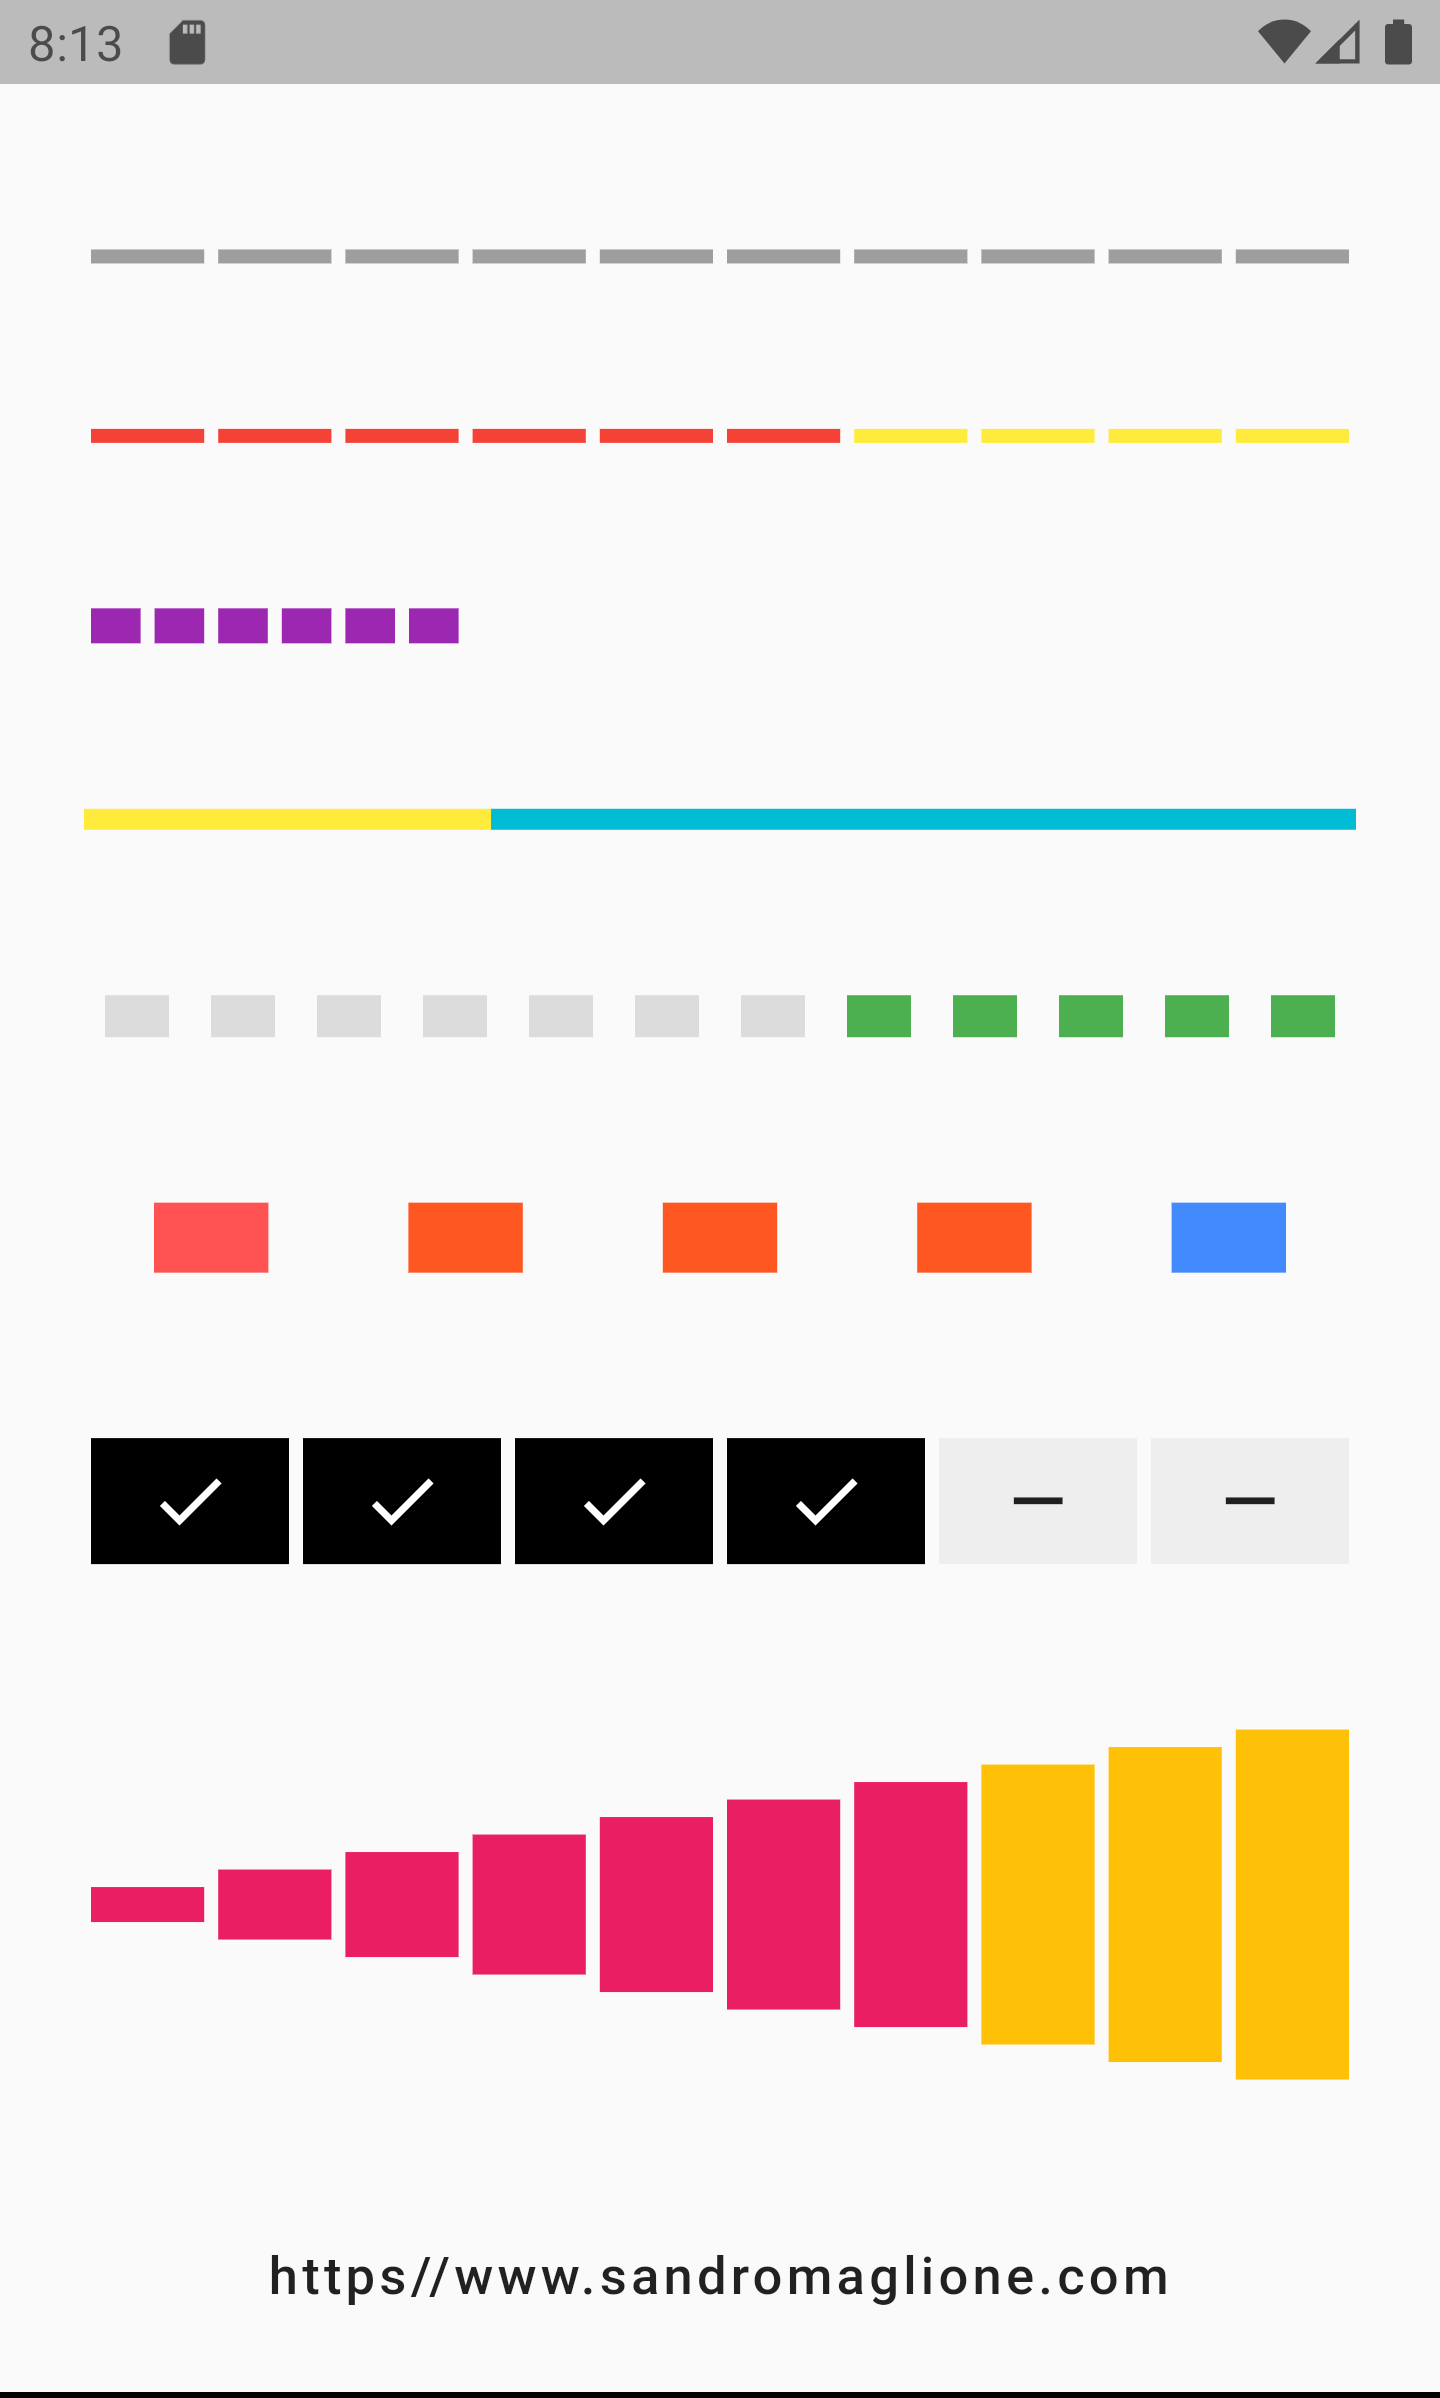
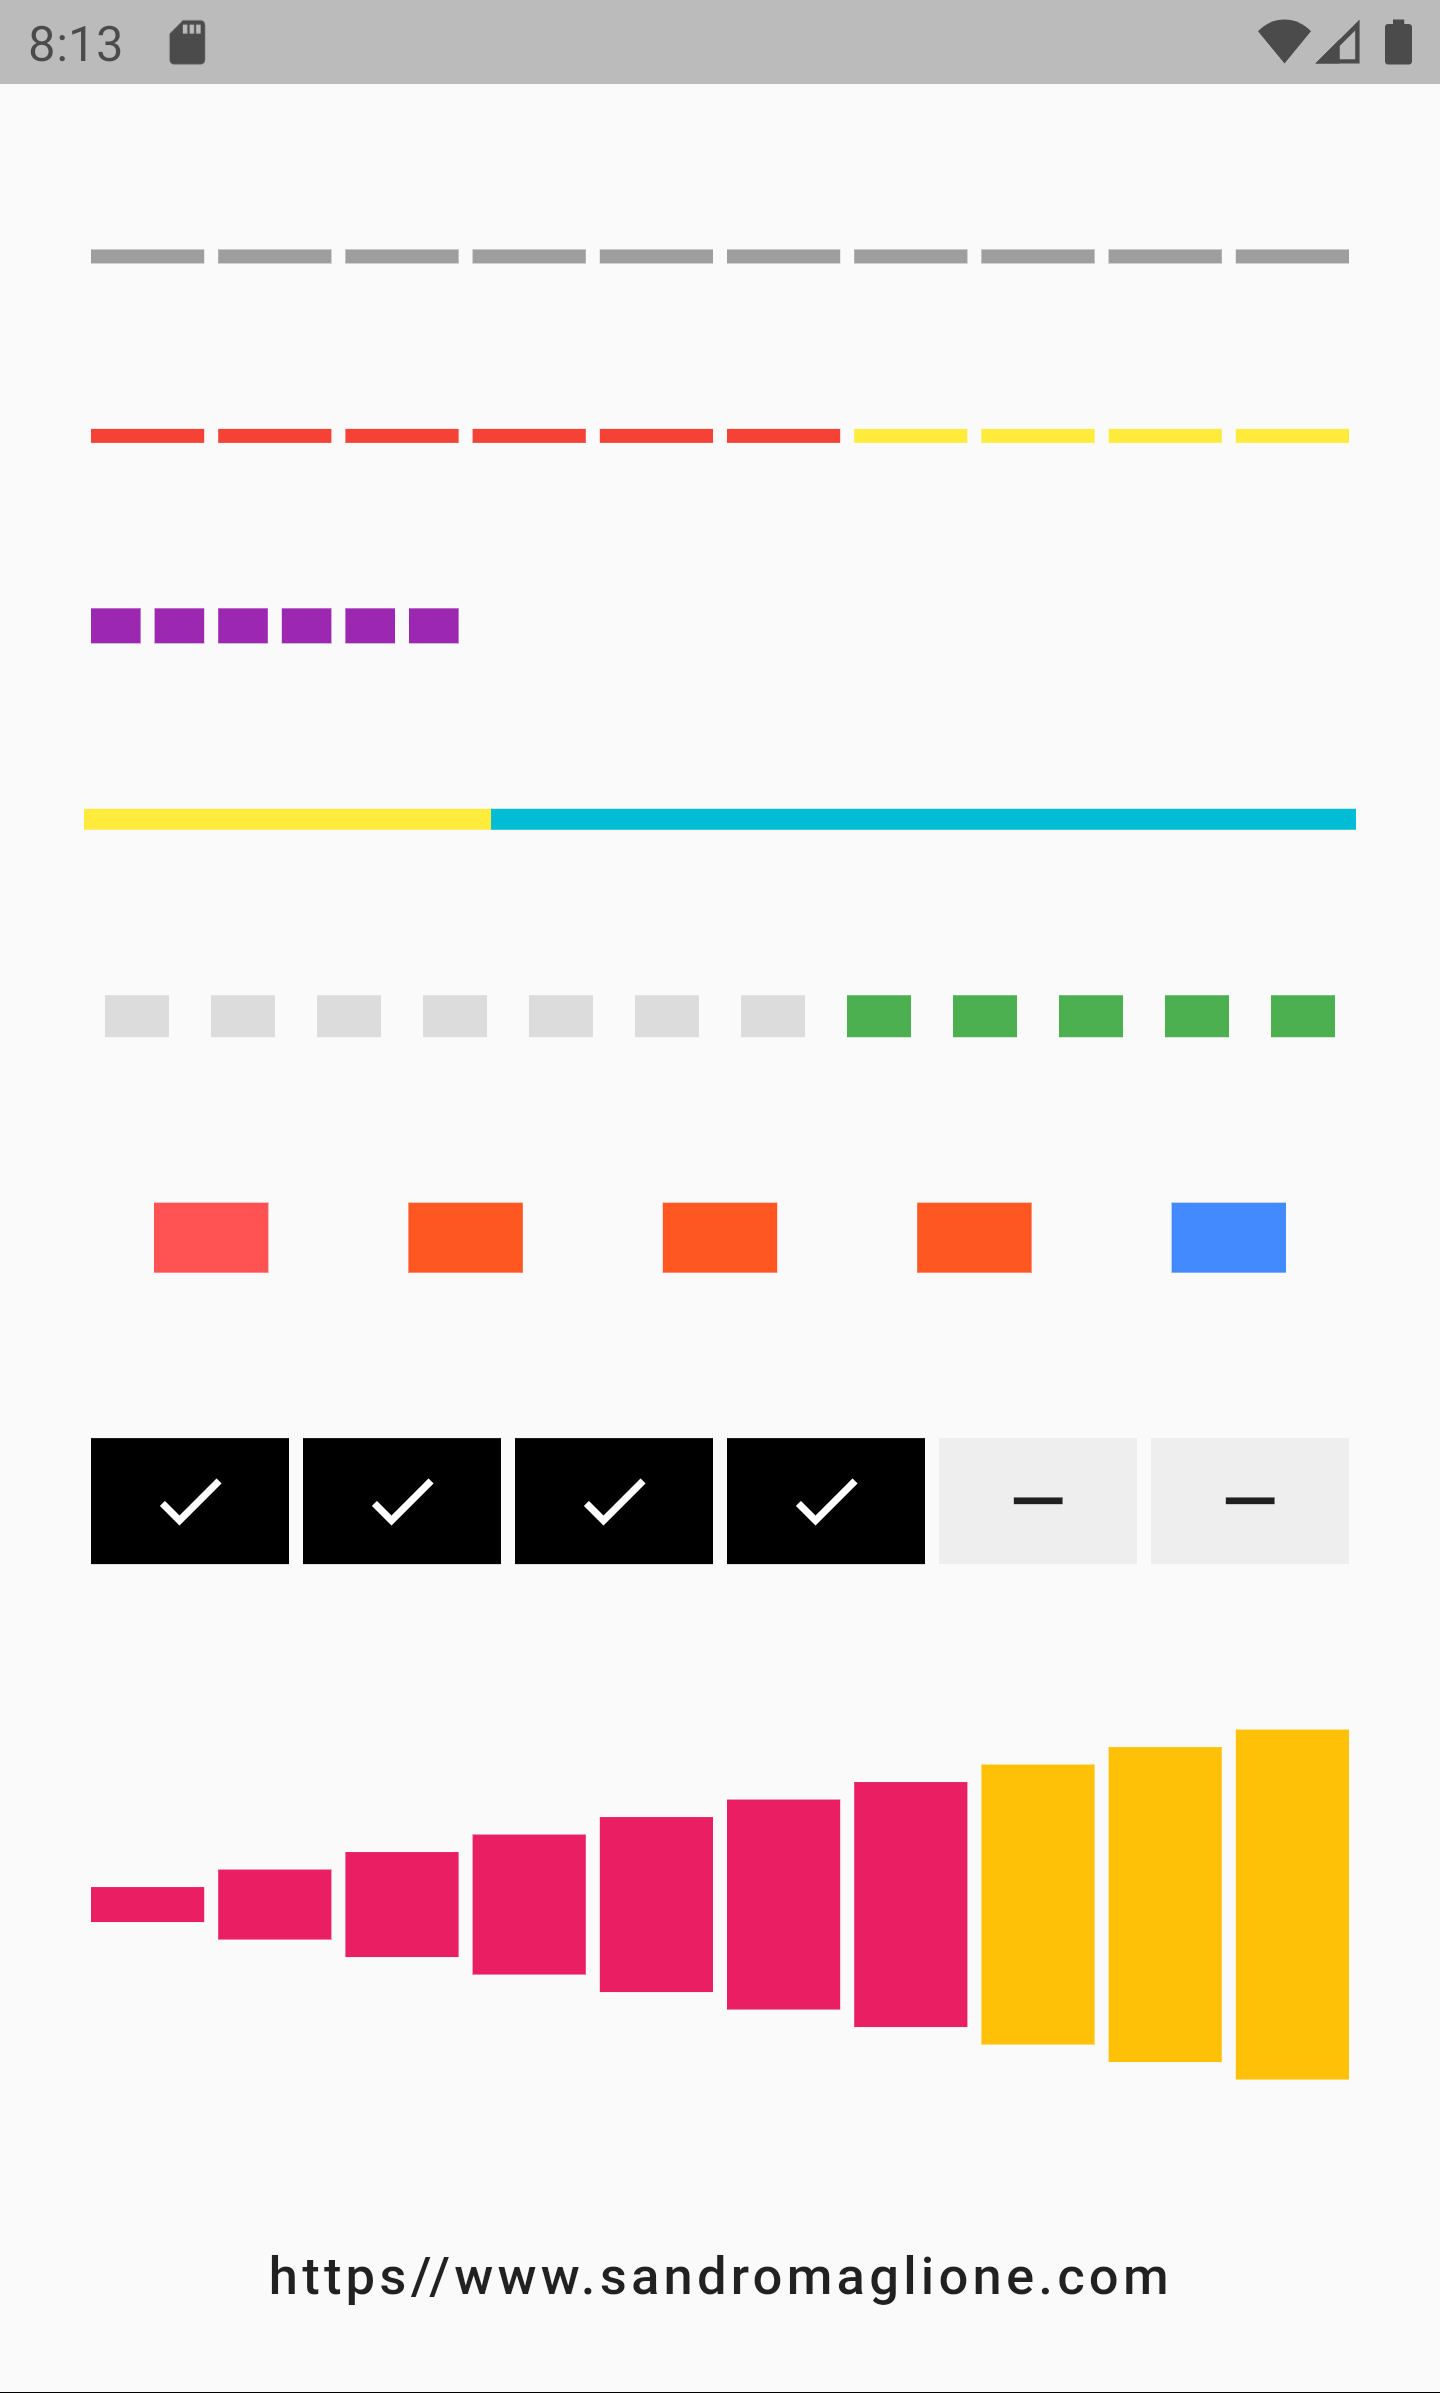
Added vertical bar examples

diff --git a/example/vertical_bar.dart b/example/vertical_bar.dart
@@ -4,80 +4,92 @@ import '../lib/step_progress_indicator.dart';
 class VerticalBar extends StatelessWidget {
   @override
   Widget build(BuildContext context) {
-    return Padding(
-      padding: const EdgeInsets.symmetric(
-        horizontal: 24.0,
-        vertical: 24.0,
-      ),
-      child: Column(
-        children: <Widget>[
-          Expanded(
-            child: Row(
-              mainAxisAlignment: MainAxisAlignment.spaceEvenly,
-              children: <Widget>[
-                StepProgressIndicator(
-                  totalSteps: 10,
-                  direction: Axis.vertical,
-                  currentStep: 2,
-                ),
-                StepProgressIndicator(
-                  totalSteps: 20,
-                  direction: Axis.vertical,
-                  currentStep: 2,
-                  selectedColor: Colors.amber,
-                  unselectedColor: Colors.black12,
-                  size: 10.0,
-                ),
-                StepProgressIndicator(
-                  totalSteps: 25,
-                  direction: Axis.vertical,
-                  customColor: (index) => Colors.deepOrange,
-                  customStep: (index, color, _) => Icon(
-                    Icons.tag_faces,
-                    color: color,
+    return Scaffold(
+      body: Padding(
+        padding: const EdgeInsets.only(
+          bottom: 24.0,
+          top: 60.0,
+        ),
+        child: Column(
+          children: <Widget>[
+            Expanded(
+              child: Row(
+                mainAxisAlignment: MainAxisAlignment.spaceEvenly,
+                children: <Widget>[
+                  StepProgressIndicator(
+                    totalSteps: 10,
+                    direction: Axis.vertical,
+                    currentStep: 2,
                   ),
-                ),
-                StepProgressIndicator(
-                  totalSteps: 10,
-                  direction: Axis.vertical,
-                  padding: 6.0,
-                  size: 30.0,
-                  customColor: (index) => Colors.lightBlue,
-                  customStep: (index, color, _) => Container(
-                    color: color,
-                    alignment: Alignment.center,
-                    child: Text('$index'),
+                  StepProgressIndicator(
+                    totalSteps: 20,
+                    direction: Axis.vertical,
+                    currentStep: 2,
+                    selectedColor: Colors.amber,
+                    unselectedColor: Colors.black12,
+                    size: 10.0,
                   ),
-                ),
-                StepProgressIndicator(
-                  totalSteps: 20,
-                  direction: Axis.vertical,
-                  padding: 3.0,
-                  size: 40.0,
-                  progressDirection: TextDirection.rtl,
-                  customColor: (index) => Colors.lightGreen,
-                  customStep: (index, color, _) => Container(
-                    color: color,
-                    alignment: Alignment.center,
-                    child: Text('$index'),
+                  StepProgressIndicator(
+                    totalSteps: 25,
+                    direction: Axis.vertical,
+                    customColor: (index) => Colors.deepOrange,
+                    customStep: (index, color, _) => Icon(
+                      Icons.tag_faces,
+                      color: color,
+                    ),
                   ),
-                ),
-              ],
+                  StepProgressIndicator(
+                    totalSteps: 10,
+                    direction: Axis.vertical,
+                    padding: 6.0,
+                    size: 30.0,
+                    customColor: (index) => Colors.lightBlue,
+                    customStep: (index, color, _) => Container(
+                      color: color,
+                      alignment: Alignment.center,
+                      child: Text('$index'),
+                    ),
+                  ),
+                  StepProgressIndicator(
+                    totalSteps: 20,
+                    direction: Axis.vertical,
+                    padding: 3.0,
+                    size: 40.0,
+                    progressDirection: TextDirection.rtl,
+                    customColor: (index) => Colors.lightGreen,
+                    customStep: (index, color, _) => Container(
+                      color: color,
+                      alignment: Alignment.center,
+                      child: Text('$index'),
+                    ),
+                  ),
+                  StepProgressIndicator(
+                    totalSteps: 100,
+                    direction: Axis.vertical,
+                    currentStep: 87,
+                    padding: 0,
+                    selectedColor: Colors.redAccent,
+                    unselectedColor: Colors.black12,
+                    progressDirection: TextDirection.rtl,
+                    selectedSize: 10.0,
+                  ),
+                ],
+              ),
             ),
-          ),
-          SizedBox(
-            height: 16.0,
-          ),
-          Text(
-            'https//www.sandromaglione.com',
-            style: TextStyle(
-              fontSize: 15.0,
-              fontWeight: FontWeight.w600,
-              letterSpacing: 1.2,
-              color: Colors.black87,
+            SizedBox(
+              height: 24.0,
             ),
-          ),
-        ],
+            Text(
+              'https//www.sandromaglione.com',
+              style: TextStyle(
+                fontSize: 15.0,
+                fontWeight: FontWeight.w600,
+                letterSpacing: 1.2,
+                color: Colors.black87,
+              ),
+            ),
+          ],
+        ),
       ),
     );
   }

diff --git a/lib/src/step_progress_indicator.dart b/lib/src/step_progress_indicator.dart
@@ -319,10 +319,10 @@ class StepProgressIndicator extends StatelessWidget {
         padding: padding,
         color: isLtr ? selectedColor : unselectedColor,
         width: isHorizontal
-            ? firstStepLength
+            ? isLtr ? firstStepLength : secondStepLength
             : isLtr ? selectedSize ?? size : unselectedSize ?? size,
         height: !isHorizontal
-            ? firstStepLength
+            ? isLtr ? firstStepLength : secondStepLength
             : isLtr ? selectedSize ?? size : unselectedSize ?? size,
       ),
     );
@@ -334,10 +334,10 @@ class StepProgressIndicator extends StatelessWidget {
         padding: padding,
         color: !isLtr ? selectedColor : unselectedColor,
         width: isHorizontal
-            ? secondStepLength
+            ? isLtr ? secondStepLength : firstStepLength
             : !isLtr ? selectedSize ?? size : unselectedSize ?? size,
         height: !isHorizontal
-            ? secondStepLength
+            ? isLtr ? secondStepLength : firstStepLength
             : !isLtr ? selectedSize ?? size : unselectedSize ?? size,
       ),
     );
@@ -358,7 +358,7 @@ class StepProgressIndicator extends StatelessWidget {
     // Add steps to the list, based on the progressDirection attribute
     for (; isLtr ? step < totalSteps : step >= 0; isLtr ? ++step : --step) {
       // currentStep = 6, then 6 selected and 4 not selected
-      final loopStep = isLtr ? step + 1 : totalSteps - step;
+      final loopStep = isLtr ? step + 1 : totalSteps - step - 1;
 
       // customColor if not null, otherwise selected or unselected color
       final stepColor = _chooseStepColor(loopStep, step);

diff --git a/README.md b/README.md
@@ -162,9 +162,9 @@ StepProgressIndicator(
 
 | Parameter       	| Type | Description | Default |
 |-------------------|------|-------------|---------|
-| totalSteps    | `int` | Total number of step of the complete indicator. | `@required` |
-| currentStep 	| `int` | Number of steps to underline, all the steps with index <= currentStep will have Color equal to selectedColor. | 0 |
-| customStep`(int, Color, double)` | `Widget` | Defines a custom Widget to display at each step, given the current step index, the Color, which could be defined with selectedColor and unselectedColor or using customColor, and its size, which could be defined using size, selectedSize, unselectedSize, or customSize. | - |
+| **totalSteps**    | `int` | Total number of step of the complete indicator. | **`@required`** |
+| currentStep 	| `int` | Number of steps to underline, all the steps with index <= `currentStep` will have Color equal to `selectedColor`. | 0 |
+| customStep`(int, Color, double)` | `Widget` | Defines a custom Widget to display at each step, given the current step index, the Color, which could be defined with `selectedColor` and `unselectedColor` or using `customColor`, and its size, which could be defined using `size`, `selectedSize`, `unselectedSize`, or `customSize`. | - |
 | onTap`(int)`         	| `void Function()` | Defines onTap function given index of the pressed step. | - |
 | customColor`(int)`         	| `Color` | Assign a custom Color for each step. | - |
 | customSize`(int)`         	| `double` | Assign a custom size for each step. | - |
@@ -173,7 +173,7 @@ StepProgressIndicator(
 | direction         	| `Axis` | Defines if indicator is horizontal or vertical. | `Axis.horizontal` |
 | progressDirection         	| `TextDirection` | Defines if steps grow from left-to-right / top-to-bottom `TextDirection.ltr` or right-to-left / bottom-to-top `TextDirection.rtl`. | `TextDirection.ltr` |
 | Size   | `double` | Size of the indicator (height if `direction` is `Axis.horizontal`, width if `Axis.vertical`). | 4.0 |
-| padding         	| `double` | Spacing between each step. | 2.0 |
+| padding         	| `double` | Spacing, left-right if horizontal, top-bottom if vertical, of each step. | 2.0 |
 | fallbackLength         	| `double` | Length of the progress indicator in case the main axis (based on `direction` attribute) has no size limit i.e. `double.infinity`. | 100.0 |
 | selectedSize         	| `double` | Specify a custom size for selected steps. | - |
 | unselectedSize         	| `double` | Specify a custom size for unselected steps. | - |
